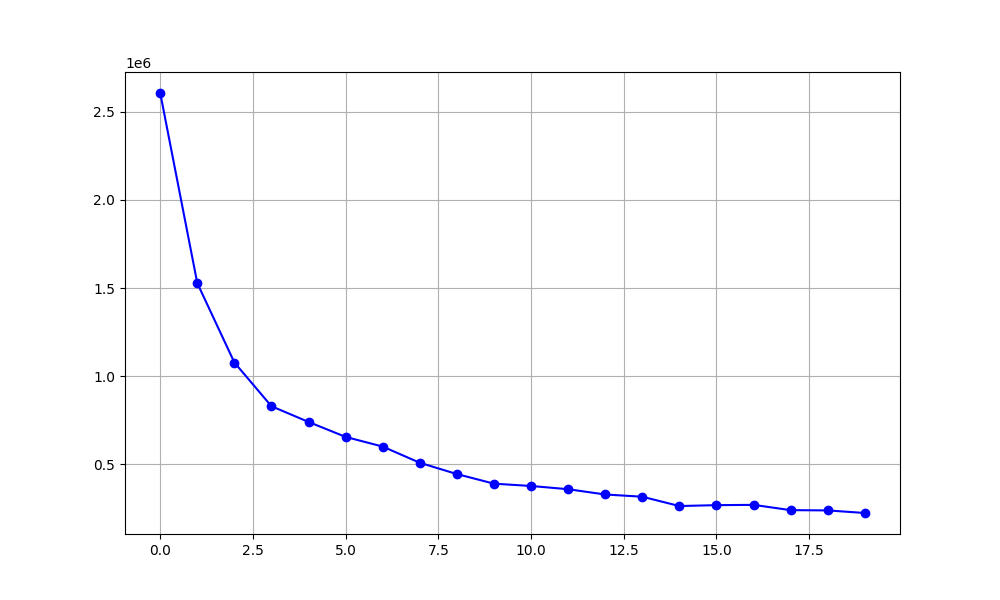
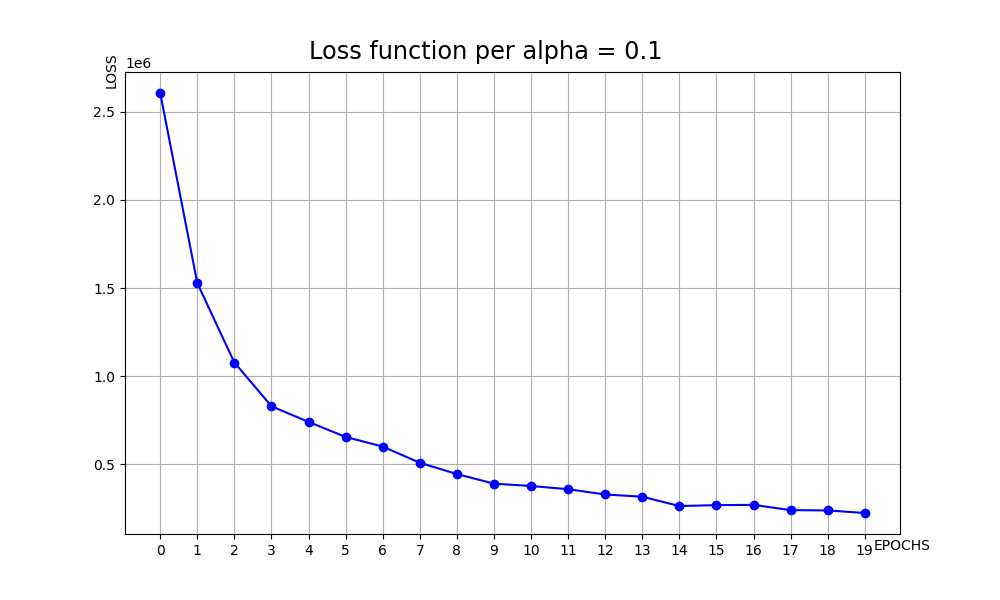
per qualsiasi modifica grafica chiedi pure

diff --git a/graphLoss.py b/graphLoss.py
@@ -36,8 +36,13 @@ plt.plot(epochs, losses, marker='o', linestyle='-', color='b')
 
 plt.xlabel=('Epoch')
 plt.ylabel=('Loss')
+plt.xticks(epochs)  
 plt.title=('Word2Vec Training Loss over Epochs')
 plt.grid(True)
+
+plt.text(20, losses[-1] * 0.05, 'EPOCHS', ha='center') 
+plt.text(-1.5, max(losses) * 1.05, 'LOSS', va='center', rotation='vertical')
+plt.text(4, losses[-1]*12.5, "Loss function per alpha = 0.1",fontsize='xx-large')
 
 #plt.show()
 plt.savefig('w2v_loss_plot.png')
